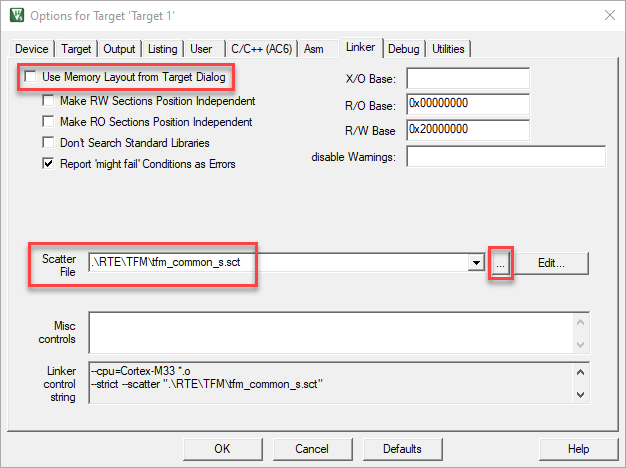
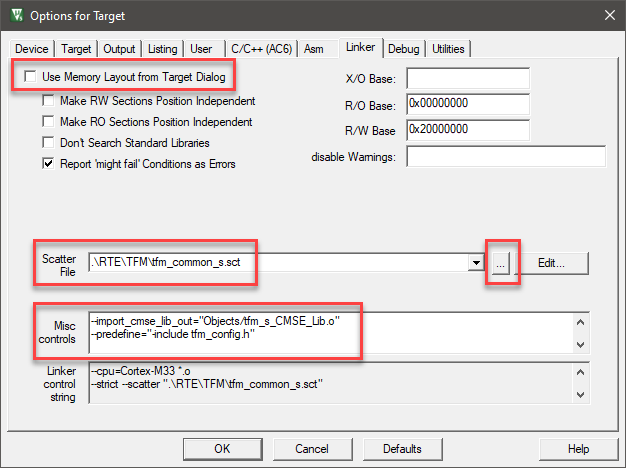
Updates after feedback

diff --git a/TF-M_Project_Creation/README.md b/TF-M_Project_Creation/README.md
@@ -18,6 +18,8 @@ A TF-M application always consists of at least two µVision projects. A secure p
 
 ## Create secure and non-secure projects
 
+The following shows how to create a secure and non-secure project that use certain TF-M services. In this case, the secure side uses the "Crypto" and "Internal Trusted Storage" services, while the non-secure side uses the "Crypto" service. Note that in your application you might want to use other/additional services. In that case select the appropriate software components. 
+
 ### Create a secure project
 
 Open µVision and go to **Project - New µVision Project...**. Select an empty folder and enter the project name, for example, *tfm_s*. Click Save:
@@ -76,6 +78,24 @@ Finally, before creating the actual application, you need to point the Arm Compi
 
 ![Configure scatter file](images/scatter_file.png "Configure scatter file")
 
+On the same tab, you need to set some **Misc controls** as well. There is no general rule for this, but it should look like the following:
+```
+--import_cmse_lib_out="<object_directory>/tfm_s_CMSE_Lib.o"
+--predefine="-include tfm_config.h"
+--predefine="-include tfm_config_rte.h"
+--predefine="-IRTE/_<target_name>/"
+--predefine="-IRTE/TFM_Platform/<device_name>/"
+```
+The first line is to generate the CMSE veneers which needs to be included on the non-secure project. Usually, the `<object_directory>` is `./Objects`. Note that the `<target name>` with prefix `’_’` needs to be used and also the `<device_name>`. In this particular case, add:
+
+```
+--import_cmse_lib_out="Objects/tfm_s_CMSE_Lib.o"
+--predefine="-include tfm_config.h"
+--predefine="-include tfm_config_rte.h"
+--predefine="-IRTE/_LPCXpresso55S69/"
+--predefine="-IRTE/TFM_Platform/LPC55S69JBD100_cm33_core0/"
+```
+
 **Configure the device**
 
 Finally, configure the device and its drivers using either `RTE_Device.h` file of designated configuration tools such as MCUXpresso or STM32CubeMX.
@@ -133,8 +153,7 @@ The Project window shows both projects:
 
 ## Pre-built example projects
 
-The previous sections have shown how to start TF-M based projects from scratch. If you want to start right away, use one of the out-of-the-box examples that are included in the the platform packs of the supported devices:
+The previous sections have shown how to start TF-M based projects from scratch. If you want to start right away, use one of the out-of-the-box examples that are included in the the platform packs of the supported devices as a starting point:
 
-![Pack Installer with TF-M Example Projects](images/pre_built_examples.png "Pack Installer with TF-M Example Projects")
-
-Use these examples as a starting point.
+- The **TF-M** Project Template consists of the secure and non-secure projects as described above.
+- The **TF-M with Bootloader** Project Template adds the TF-M bootloader component.
